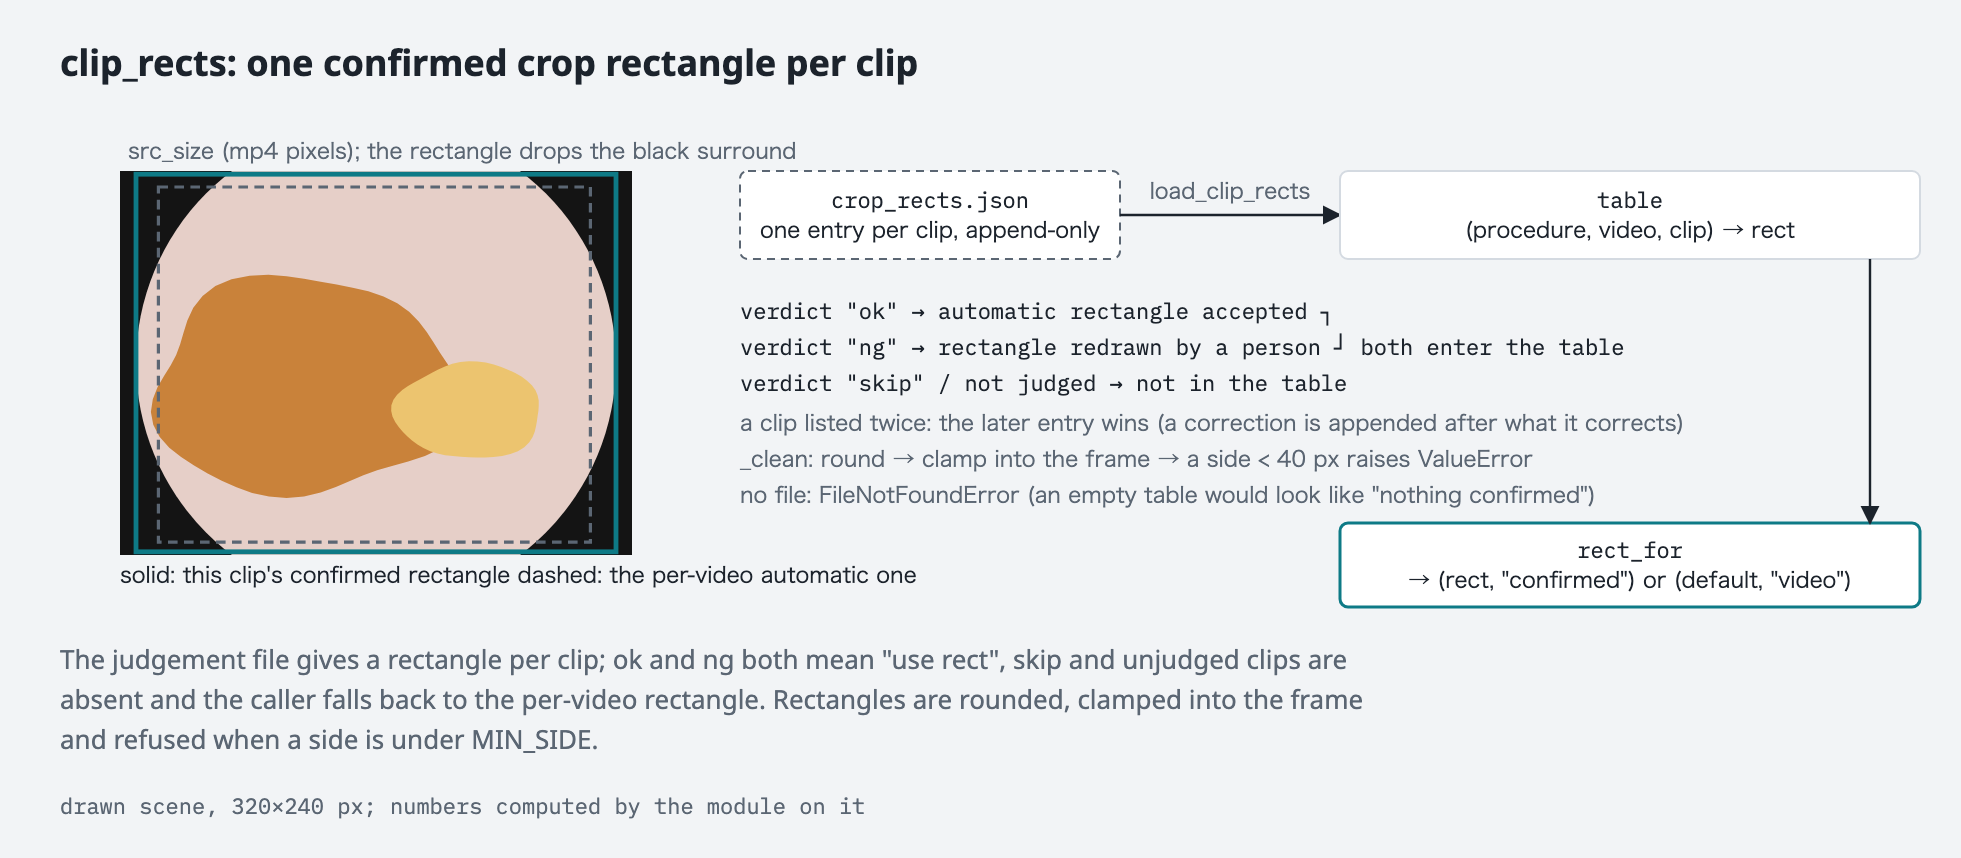
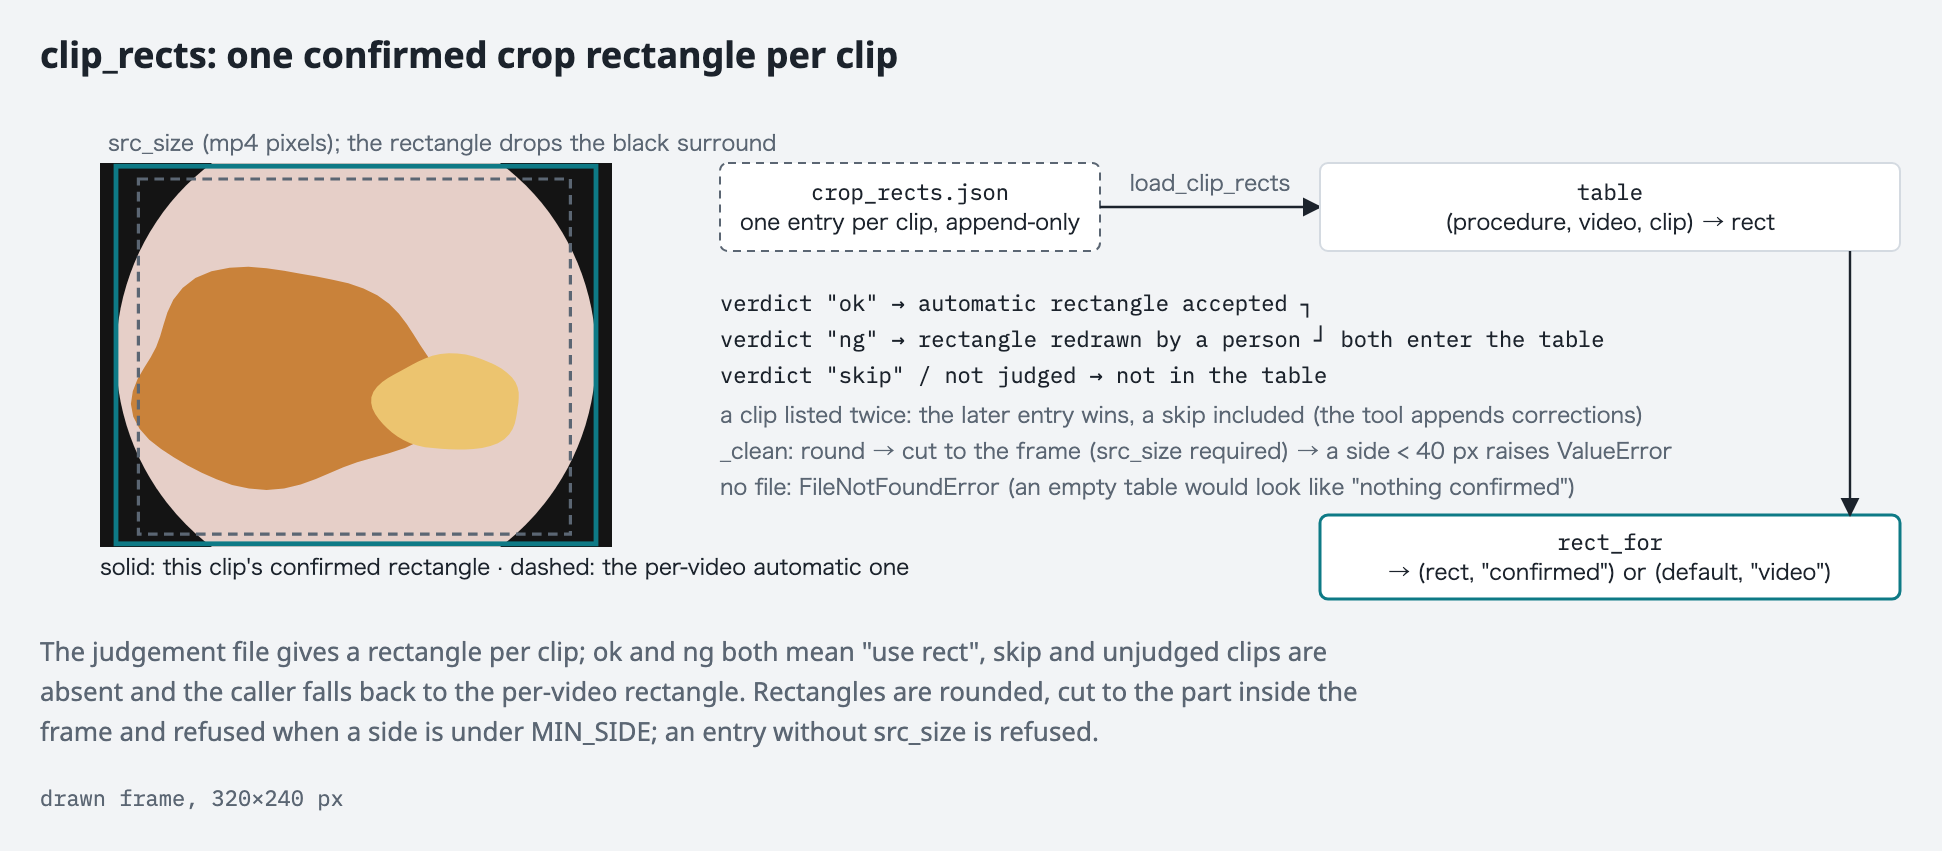
atlas120k_meta, docs: bring the README, the plan and the figures in line with the readers
- README: the workbench module carries all 97 video names; only the
  matched frame pairs and the diffs at ratio 1 are unique to this file.
  verify_against_bundled checks a ratio, it does not measure one.
- workstreams: the ratio does follow from the fps; it is measured
  because the mp4 on disk is not necessarily the one sampled.
- The metadata test no longer says nothing reads the files.
- Figures: the frame-ratio label no longer crosses the arrows, the
  formula reads 3 x 4 = 12, the drawn example now shows why frames
  below 30 are refused, and the footers say what the figures are. The
  crop figure says cut, not clamp, and its caption is separated.

diff --git a/tests/test_atlas120k_meta.py b/tests/test_atlas120k_meta.py
@@ -1,8 +1,8 @@
 """The ATLAS-120k metadata files agree with one another, and carry nothing private.
 
 The files under `atlas120k_meta/` are copies of data made in the private
-workbench, and nothing in this repository reads them yet. Until the readers
-are ported, these checks are what keeps an edit to one file from quietly
+workbench. The readers in `surgical_core/atlas120k/` check each file on its
+own; these checks are what keeps an edit to one file from quietly
 contradicting another: the paper's population is one list, every clip in it
 has a crop rectangle and a depth fingerprint, and none of the files carries a
 path from the machine they were made on.

diff --git a/atlas120k_meta/README.md b/atlas120k_meta/README.md
@@ -52,14 +52,19 @@ the notes.
 
 `frame_ratio.json` is the exception: it was assembled from the measurement's
 output, which was git-ignored in the workbench and is no longer on disk. The
-14 ratios above 1 and their `diff` also appear as constants in the workbench's
-`surgical_core/atlas/frame_ratio.py`; the 83 rows at ratio 1 exist only here.
-The ratios follow the dataset's own sampling rule, `max(1, int(fps / 15))`
-(see the reader's docstring), so re-measuring is the pixel match the reader's
-`verify_against_bundled` performs, run once per video.
+workbench's `surgical_core/atlas/frame_ratio.py` carries all 97 video names
+and, for the 14 ratios above 1, the ratio and its `diff` as constants; the
+frame pair each video was matched on, and the `diff` of the 83 at ratio 1,
+exist only here. The ratios follow the dataset's own sampling rule,
+`max(1, int(fps / 15))` (see the reader's docstring). The reader's
+`verify_against_bundled` checks a ratio against the pixels but does not find
+one: re-measuring a video means calling it once per candidate ratio and
+keeping the one that matches.
 
 ## Who reads these
 
 `surgical_core/atlas120k/clip_rects.py` reads the crop rectangles and
 `frame_ratio.py` the frame ratios; both take the file's path as an argument.
+`surgical_core/clip_time.py` is handed the frame ratios when a manifest does
+not record its own.
 `tests/test_atlas120k_meta.py` pins what must hold between the files.

diff --git a/docs/workstreams.md b/docs/workstreams.md
@@ -263,8 +263,10 @@ does not have one rectangle, since the recording changes mid-video in some,
 and the recipe's guess was wrong for most clips, so a person judged each clip
 and the file is that judgement. `frame_ratio` holds the measured ratio between
 a clip index's frame numbers and the mp4's: for some videos the annotation
-numbers frames at a lower rate, the ratio cannot be derived from the fps, so
-it is a measurement, and an unmeasured video is refused rather than guessed.
+numbers frames at a lower rate. The ratio follows from the fps by the
+dataset's sampling rule, but the mp4 on disk is not necessarily the one the
+authors sampled, so the table is a measurement, and an unmeasured video is refused
+rather than guessed.
 
 **Work.** Port as `surgical_core/atlas120k/clip_rects.py` and `frame_ratio.py`
 (the module is `atlas120k`, decision 8 in `docs/porting.md`). English only;
